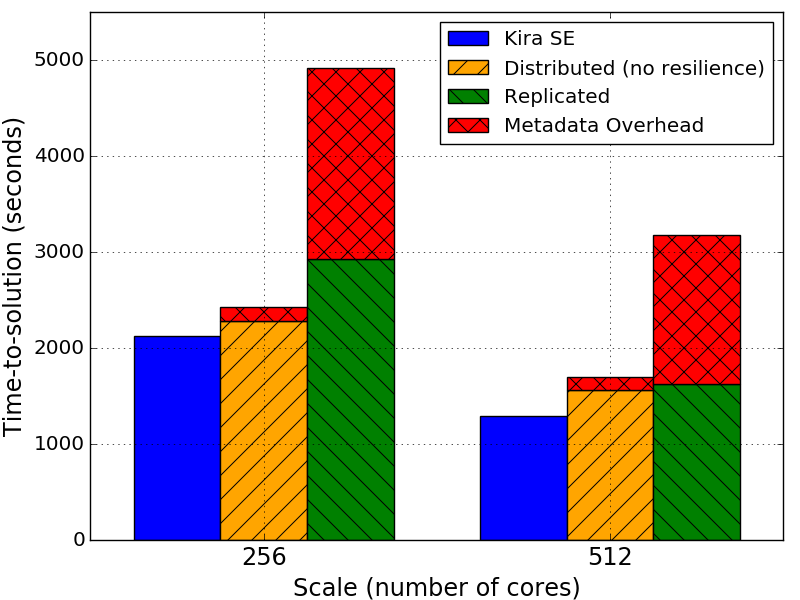
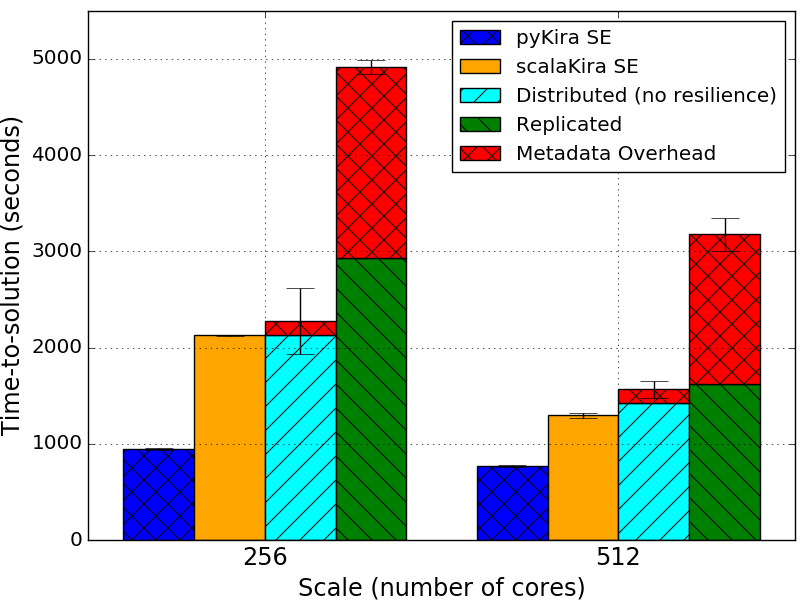
update all figures with latest measurements

Changed region(s): [[0.0, 0.0, 1.0, 0.96], [0.3438, 0.96, 0.75, 1.0]]

diff --git a/pictures/allgluster.py b/pictures/allgluster.py
@@ -4,6 +4,7 @@ import numpy as np
 import matplotlib.pyplot as plt
 
 N = 2
+pyKira = (72, 47)
 Kira = (268.1, 152.3)
 Dis = (198.7, 119.3)
 Dis_meta = (15, 10)
@@ -14,23 +15,25 @@ Str_meta = (98, 128)
 Str_Rep = (189.5, 143.4)
 Str_Rep_meta = (156, 104)
 
-ind = 0.1+np.arange(N)  # the x locations for the groups
-width = 0.16       # the width of the bars
+ind = 0.11+np.arange(N)  # the x locations for the groups
+width = 0.13       # the width of the bars
 
 ax = plt.subplot()
 ax.set_ylim([0, 450])
-rects1 = ax.bar(ind, Kira, width, color='b')
-rects2 = ax.bar(ind+width, Dis, width, color='orange', hatch="/")
-rects3 = ax.bar(ind+width, Dis_meta, width, color='red', bottom=Dis, hatch="x")
+rects0 = ax.bar(ind, pyKira, width, color='blue', hatch='x')
+rects1 = ax.bar(ind+width, Kira, width, color='orange')
 
-rects4 = ax.bar(ind+width*2, Rep, width, color='green', hatch="\\")
-rects5 = ax.bar(ind+width*2, Rep_meta, width, color='red', bottom=Rep, hatch="x")
+rects2 = ax.bar(ind+width*2, Dis, width, color='cyan', hatch="/")
+rects3 = ax.bar(ind+width*2, Dis_meta, width, color='red', bottom=Dis, hatch="x")
 
-rects6 = ax.bar(ind+width*3, Str, width, color='yellow', hatch="+")
-rects7 = ax.bar(ind+width*3, Str_meta, width, color='red', bottom=Str, hatch="x")
+rects4 = ax.bar(ind+width*3, Rep, width, color='green', hatch="\\")
+rects5 = ax.bar(ind+width*3, Rep_meta, width, color='red', bottom=Rep, hatch="x")
 
-rects8 = ax.bar(ind+width*4, Str_Rep, width, color='purple', hatch="-")
-rects9 = ax.bar(ind+width*4, Str_Rep_meta, width, color='red', bottom=Str_Rep, hatch="x")
+rects6 = ax.bar(ind+width*4, Str, width, color='yellow', hatch="+")
+rects7 = ax.bar(ind+width*4, Str_meta, width, color='red', bottom=Str, hatch="x")
+
+rects8 = ax.bar(ind+width*5, Str_Rep, width, color='purple', hatch="-")
+rects9 = ax.bar(ind+width*5, Str_Rep_meta, width, color='red', bottom=Str_Rep, hatch="x")
 ax.grid(True)
 
 # add some text for labels, title and axes ticks
@@ -39,7 +42,7 @@ ax.set_ylabel('Time-to-solution (seconds)', size='x-large')
 ax.set_xticks(ind+width*2.5)
 ax.set_xticklabels( ('128', '256'), size='x-large') 
 plt.yticks(size='large')
-ax.legend( (rects1[0], rects2[0], rects4[0], rects6[0], rects8[0], rects3[0]), ('Kira SE', 'Distributed (no resilience)', 'Replicated', 'Striped (no resilience)', 'Striped Replicated', 'Metadata Overhead') )
+ax.legend( (rects0[0], rects1[0], rects2[0], rects4[0], rects6[0], rects8[0], rects3[0]), ('pyKira SE', 'scalaKira SE', 'Distributed (no resilience)', 'Replicated', 'Striped (no resilience)', 'Striped Replicated', 'Metadata Overhead') )
 
 plt.show()
 

diff --git a/pictures/1TB-EC2.py b/pictures/1TB-EC2.py
@@ -4,33 +4,42 @@ import numpy as np
 import matplotlib.pyplot as plt
 
 N = 2
-Kira = (2127, 1295)
-Dis = (2280, 1565)
+pyKira = (944, 767)
+pyKiraSDV = (10.41, 10.88)
+
+scalaKira = (2127, 1295)
+scalaKiraSDV = (5.02, 28.86)
+
+Dis = (2280-148, 1565-139)
 Dis_meta = (148, 139)
+DisSDV = (342.67, 90.38)
+
 Rep = (4918-1991, 3175-1553)
 Rep_meta = (1991, 1553)
+RepSDV = (70.43, 166.87)
 
-ind = 0.125+np.arange(N)  # the x locations for the groups
-width = 0.25       # the width of the bars
+ind = 0.1+np.arange(N)  # the x locations for the groups
+width = 0.2       # the width of the bars
 
 ax = plt.subplot()
 ax.set_ylim([0, 5500])
-rects1 = ax.bar(ind, Kira, width, color='b')
-rects2 = ax.bar(ind+width, Dis, width, color='orange', hatch="/")
-rects3 = ax.bar(ind+width, Dis_meta, width, color='red', bottom=Dis, hatch="x")
+rects0 = ax.bar(ind, pyKira, width, color='blue', hatch='x', yerr=pyKiraSDV, ecolor='black', error_kw=dict(markersize=4, capsize=10, elinewidht=2))
+rects1 = ax.bar(ind+width, scalaKira, width, color='orange', yerr=scalaKiraSDV, ecolor='black', error_kw=dict(markersize=4, capsize=10, elinewidht=2))
+rects2 = ax.bar(ind+width*2, Dis, width, color='cyan', hatch="/")
+rects3 = ax.bar(ind+width*2, Dis_meta, width, color='red', bottom=Dis, hatch="x", yerr=DisSDV, ecolor='black', error_kw=dict(markersize=4, capsize=10, elinewidht=2))
 
-rects4 = ax.bar(ind+width*2, Rep, width, color='green', hatch="\\")
-rects5 = ax.bar(ind+width*2, Rep_meta, width, color='red', bottom=Rep, hatch="x")
+rects4 = ax.bar(ind+width*3, Rep, width, color='green', hatch="\\")
+rects5 = ax.bar(ind+width*3, Rep_meta, width, color='red', bottom=Rep, hatch="x", yerr=RepSDV, ecolor='black', error_kw=dict(markersize=4, capsize=10, elinewidht=2))
 
 ax.grid(True)
 
 # add some text for labels, title and axes ticks
 ax.set_xlabel('Scale (number of cores)', size='x-large')
 ax.set_ylabel('Time-to-solution (seconds)', size='x-large')
-ax.set_xticks(ind+width*1.5)
+ax.set_xticks(ind+width*2)
 ax.set_xticklabels( ('256', '512'), size='x-large') 
 plt.yticks(size='large')
-ax.legend( (rects1[0], rects2[0], rects4[0], rects3[0]), ('Kira SE', 'Distributed (no resilience)', 'Replicated', 'Metadata Overhead') )
+ax.legend( (rects0[0], rects1[0], rects2[0], rects4[0], rects3[0]), ('pyKira SE', 'scalaKira SE', 'Distributed (no resilience)', 'Replicated', 'Metadata Overhead') )
 
 plt.show()
 

diff --git a/pictures/1TB-edison.py b/pictures/1TB-edison.py
@@ -4,23 +4,26 @@ import numpy as np
 import matplotlib.pyplot as plt
 
 N = 1
-Kira = (1295)
-Idle = (938)
-Idle_meta = (118)
-Busy = (1983)
-Busy_meta = (284)
+pyKira = (767)
+pyKiraSDV = (10.88)
+
+scalaKira = (1295)
+scalaKiraSDV = (28.86)
+
+Edison = (1389-201)
+Edison_meta = (201)
+EdisonSDV = (520.53)
 
 ind = 0.35+np.arange(N)  # the x locations for the groups
 width = 0.1       # the width of the bars
 
 ax = plt.subplot()
 #ax.set_ylim([0, 2500])
-rects1 = ax.bar(ind, Kira, width, color='b')
-rects2 = ax.bar(ind+width, Idle, width, color='orange', hatch="/")
-rects3 = ax.bar(ind+width, Idle_meta, width, color='red', bottom=Idle, hatch="x")
+rects1 = ax.bar(ind, pyKira, width, color='blue', hatch='x', yerr=pyKiraSDV, ecolor='black', error_kw=dict(markersize=4, capsize=10, elinewidht=2))
+rects2 = ax.bar(ind+width, scalaKira, width, color='orange', yerr=scalaKiraSDV, ecolor='black', error_kw=dict(markersize=4, capsize=10, elinewidht=2))
 
-rects4 = ax.bar(ind+width*2, Busy, width, color='green', hatch="\\")
-rects5 = ax.bar(ind+width*2, Busy_meta, width, color='red', bottom=Busy, hatch="x")
+rects3 = ax.bar(ind+width*2, Edison, width, color='cyan', hatch="\\")
+rects4 = ax.bar(ind+width*2, Edison_meta, width, color='red', bottom=Edison, hatch="x", yerr=EdisonSDV, ecolor='black', error_kw=dict(markersize=4, capsize=10, elinewidht=2))
 
 ax.grid(True)
 
@@ -30,7 +33,7 @@ ax.set_ylabel('Time-to-solution (seconds)', size='x-large')
 ax.set_xticks(ind+width*1.5)
 ax.set_xticklabels( ('512', ''), size='x-large') 
 plt.yticks(size='large')
-ax.legend((rects1[0], rects2[0], rects4[0], rects3[0]), ('Kira SE', 'Edison Idle', 'Edison Busy', 'Metadata Overhead'),loc='best')
+ax.legend((rects1[0], rects2[0], rects3[0], rects4[0]), ('pyKira SE', 'scalaKira SE', 'Edison', 'Metadata Overhead'),loc='best')
 
 plt.show()
 

diff --git a/pictures/scaleup.py b/pictures/scaleup.py
@@ -33,11 +33,11 @@ plt.yticks(size='large')
 ax.set_xlabel('Scale', size='x-large')
 ax.set_ylabel('Time-to-solution (seconds in log scale)', size='x-large')
 ax.set_yscale("log")
-ax_c.set_ylabel('Slowdown', size='x-large')
+ax_c.set_ylabel('Relative Performance Compared to C', size='x-large')
 ax.set_xticks(ind+width)
 ax.set_xticklabels( ('1 core', '2 cores', '4 cores', '8 cores'), size='x-large') 
 
-ax.legend( (rects1[0], rects2[0], rects3[0], rects4[0], rects5[0]), ('pyKira SE', 'scalaKira SE', 'C', 'pySlowdown', 'scalaSlowdown') )
+ax.legend( (rects1[0], rects2[0], rects3[0], rects4[0], rects5[0]), ('pyKira SE', 'scalaKira SE', 'C', 'pyKira SE Relative', 'scalaKira SE Relative') )
 
 plt.show()
 

diff --git a/pictures/scaleout.py b/pictures/scaleout.py
@@ -22,11 +22,11 @@ ax.grid(True)
 
 # add some text for labels, title and axes ticks
 ax.set_xlabel('Scale (number of cores)', size='x-large')
-ax.set_ylabel('Time-to-solution (seconds)', size='x-large')
+ax.set_ylabel('Time-to-solution (seconds in log scale)', size='x-large')
 ax.set_xticks(ind+width)
 ax.set_xticklabels( ('8', '32', '64', '128', '256', '512'), size='x-large') 
 plt.yticks(size='large')
-ax.legend( (rects2[0], rects1[0], rects3[0]), ('pyKira', 'scalaKira', 'C') )
+ax.legend( (rects2[0], rects1[0], rects3[0]), ('pyKira SE', 'scalaKira SE', 'C') )
 
 plt.show()
 

diff --git a/pictures/locality.py b/pictures/locality.py
@@ -24,7 +24,7 @@ ax.set_ylabel('Locality hit ratio (percentage)', size='x-large')
 ax.set_xticks(ind+width)
 ax.set_xticklabels( ('8', '32', '64', '128', '256', '512'), size='x-large') 
 plt.yticks(size='large')
-ax.legend( (rects1[0], rects2[0]), ('pyKira', 'C Estimated') )
+ax.legend( (rects1[0], rects2[0]), ('pyKira SE', 'C Estimated') )
 
 plt.show()
 
